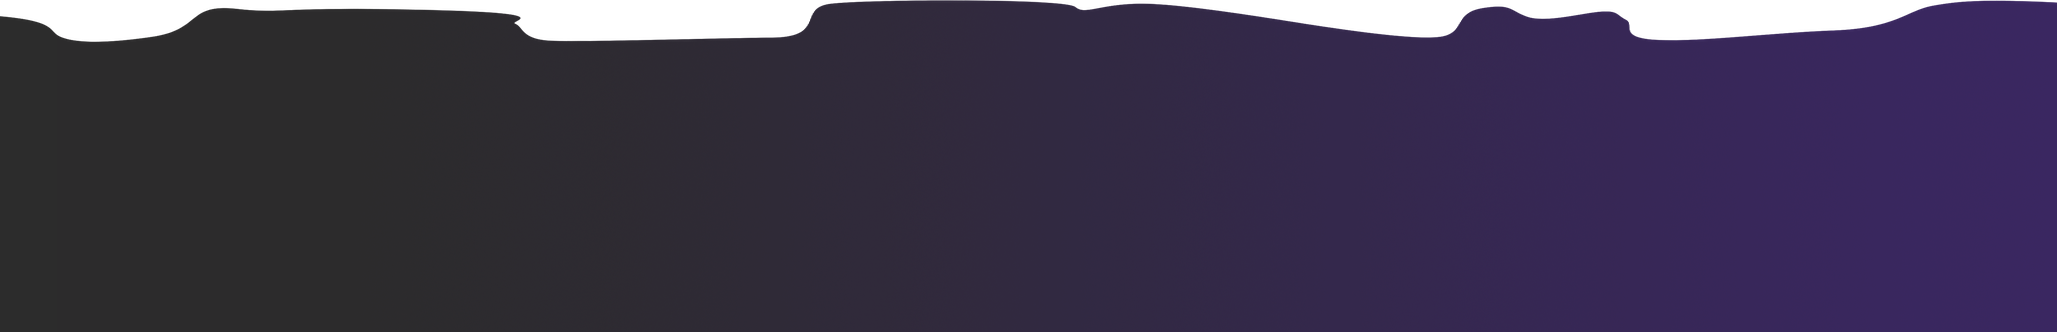
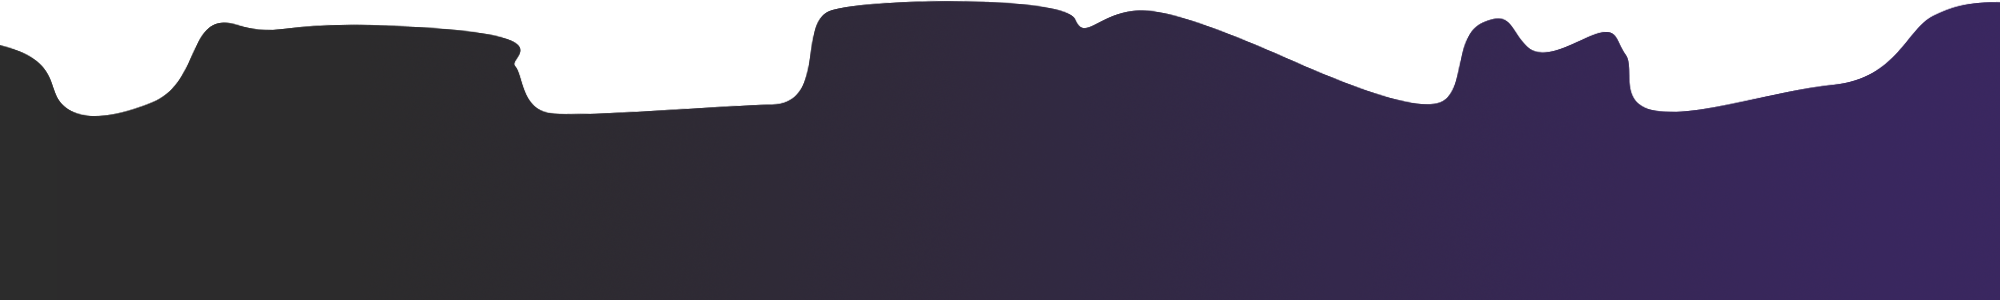
added footer separator

Changed region(s): [[0.0, 0.0, 1.0, 0.39]]

diff --git a/src/components/Contact.js b/src/components/Contact.js
@@ -11,12 +11,12 @@ import {faCode} from '@fortawesome/free-solid-svg-icons';
 export function Contact(){
     return(
         <>
-        <figure style={{backgroundColor: 'red', height: '150px', width: '100%' }}>
-            
+        <figure className='m-0 p-0'>
+            <img src={separatorBottom} alt="decoration" className='w-100'/>
         </figure>
 
-        <footer className='contact' id="contact">
-            <h2 className='py-3 px-5 m-0'>Contact</h2>
+        <footer className=' contact' id="contact">
+            <h2 className='pt-0 pb-3 px-5 m-0'>Contact</h2>
             <a className="d-block text-decoration-none py-2 px-5 text-hover-gradient" href="mailto:slupek3@poczta.fm">
                 <span><FontAwesomeIcon icon={faEnvelope} className="text-hover-gradient" /></span>
                 Email

diff --git a/src/scss/blocks/_contact.scss b/src/scss/blocks/_contact.scss
@@ -1,6 +1,11 @@
+$bg: '../../assets/bg.png';
+
 .contact{
     min-height: 30vh;
-    background-image: linear-gradient($footer-gradient);
+    background-image: url($bg);
+    background-position: center;
+    background-size: cover;
+    padding-bottom: 50px;
 
     h2{
         color: $pink;
